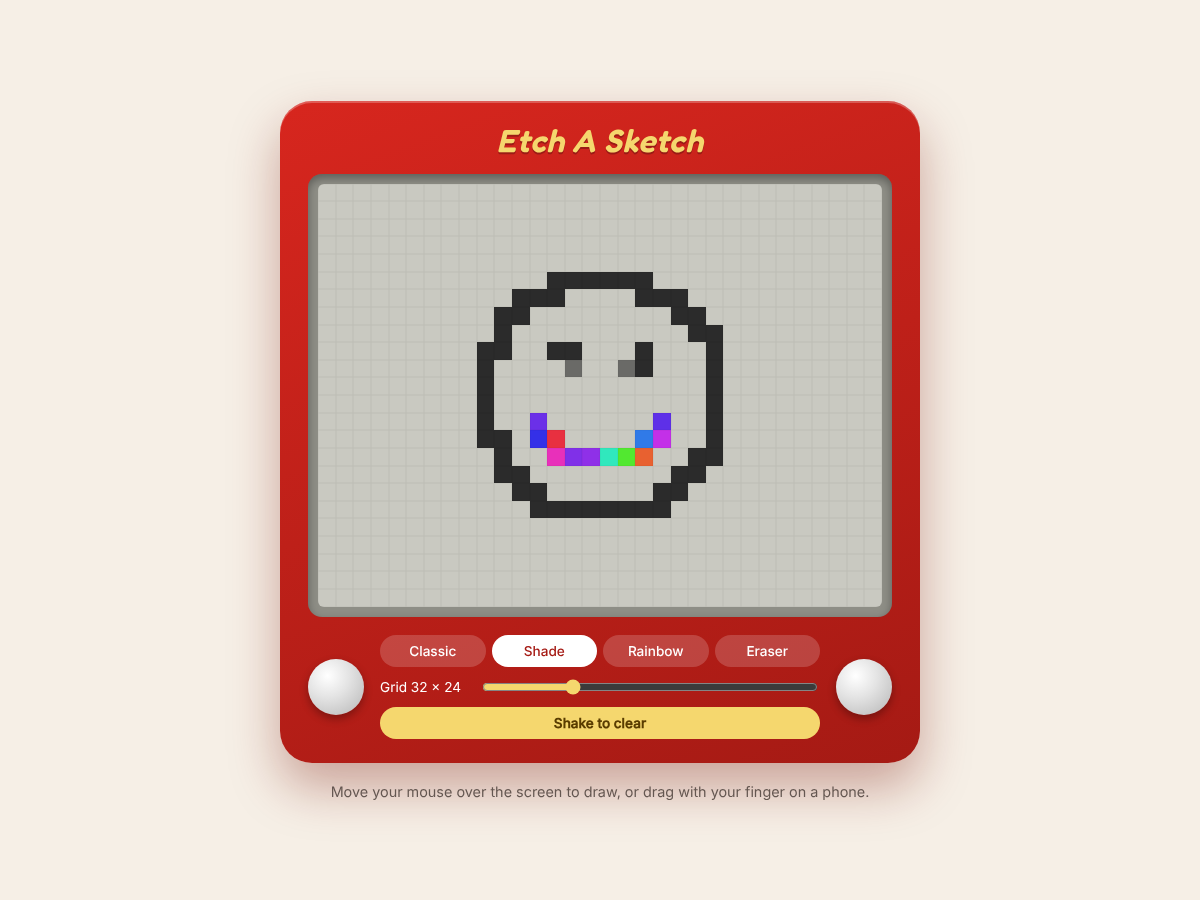
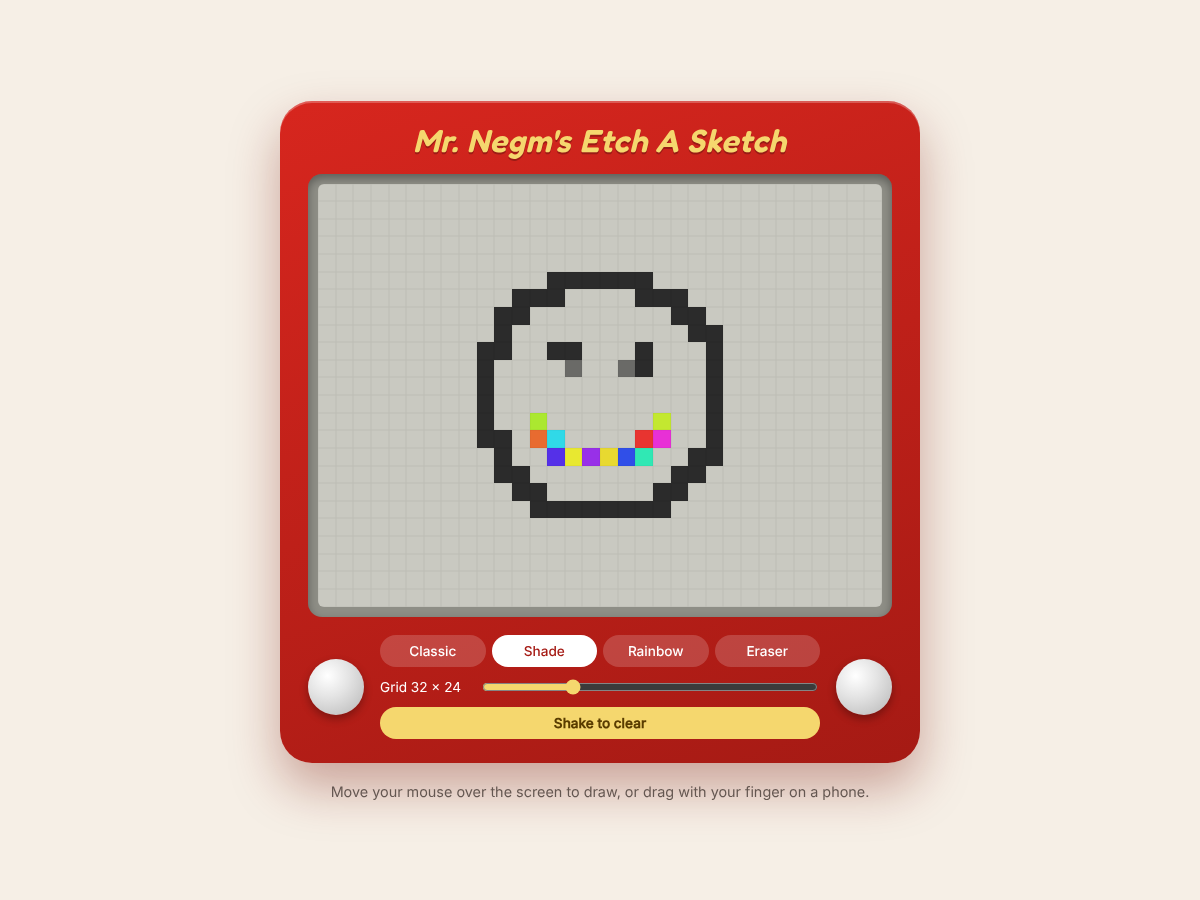
Rename to Mr. Negm's Etch A Sketch
Claude-Session: https://claude.ai/code/session_01F9ji9DoU1H5ir3rbtoQrke

Changed region(s): [[0.3392, 0.1244, 0.6475, 0.1867], [0.4317, 0.4356, 0.5858, 0.5289]]

diff --git a/index.html b/index.html
@@ -8,12 +8,12 @@
     <link rel="preconnect" href="https://fonts.gstatic.com" crossorigin />
     <link href="https://fonts.googleapis.com/css2?family=Fredoka:wght@500;600&family=Inter:wght@400;500&display=swap" rel="stylesheet" />
     <link rel="stylesheet" href="main.css" />
-    <title>Etch-A-Sketch</title>
+    <title>Mr. Negm&#39;s Etch A Sketch</title>
   </head>
   <body>
     <main class="page">
       <div class="toy" id="toy">
-        <h1 class="logo">Etch A Sketch</h1>
+        <h1 class="logo">Mr. Negm&#39;s Etch A Sketch</h1>
 
         <div class="screen">
           <div class="grid" id="grid" aria-label="Drawing grid"></div>

diff --git a/README.md b/README.md
@@ -1,4 +1,4 @@
-# Etch-A-Sketch
+# Mr. Negm's Etch A Sketch
 
 A browser version of the classic drawing toy, built with plain HTML, CSS and JavaScript with no libraries or build step.
 
